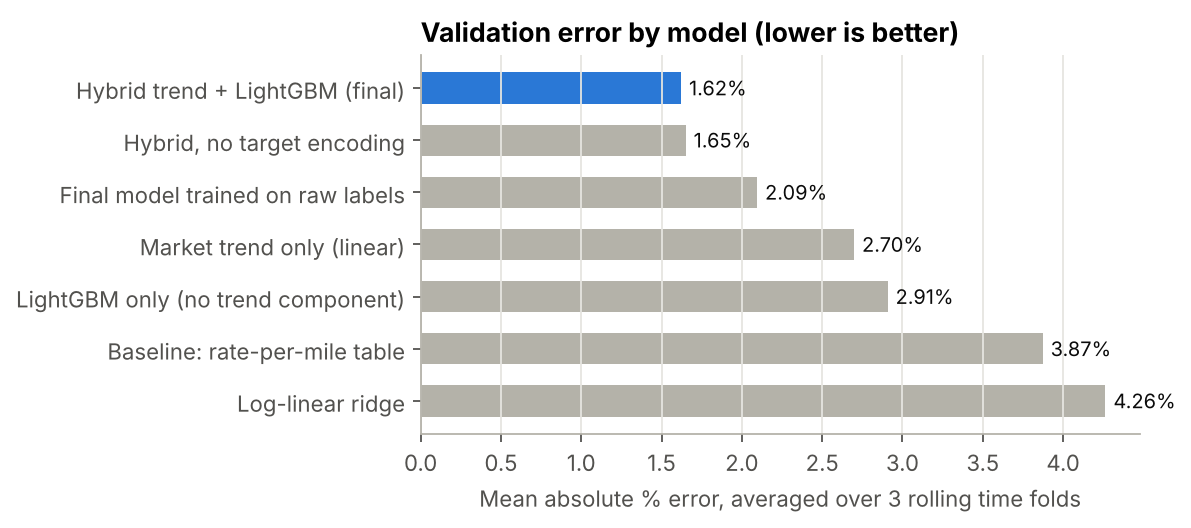
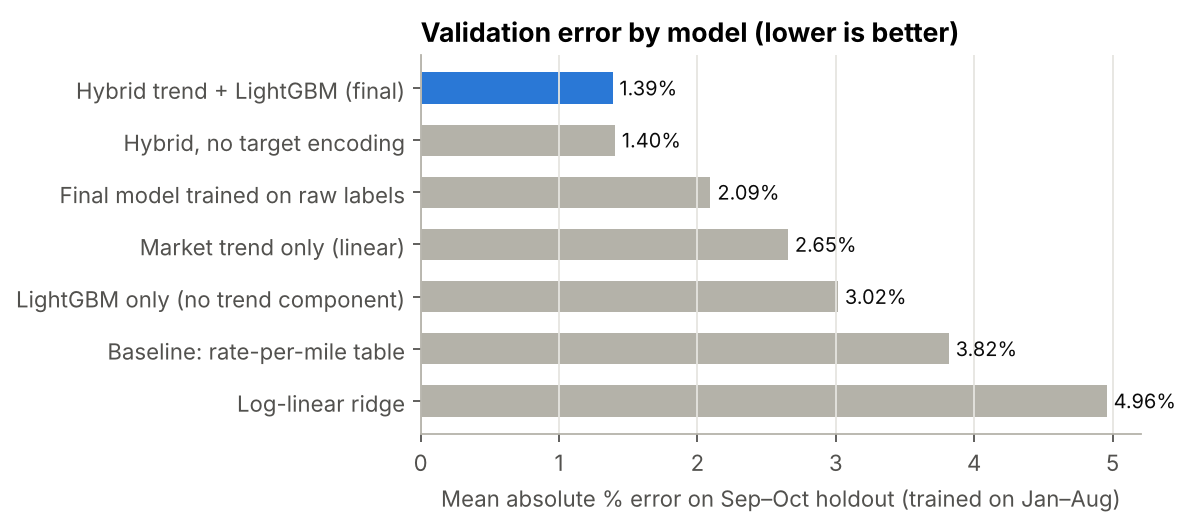
Compare models on the same holdout fold in report chart
Claude-Session: https://claude.ai/code/session_01J7WmqCRkM1Gczk5iczum4x

diff --git a/src/report_figures.py b/src/report_figures.py
@@ -35,13 +35,14 @@ def save(fig, name):
 
 def model_comparison():
     res = pd.read_csv(ROOT / "outputs" / "validation_metrics.csv")
-    s = res[res["labels"] == "clean"].groupby("model")["MAPE_%"].mean().sort_values(ascending=False)
+    primary = res["fold"].str.contains("test 2025-09-01")
+    s = res[(res["labels"] == "clean") & primary].set_index("model")["MAPE_%"].sort_values(ascending=False)
     fig, ax = plt.subplots(figsize=(7.5, 3.4))
     colors = [BLUE if "final" in m else GRAY for m in s.index]
     ax.barh(s.index, s.values, color=colors, height=0.6)
     for y, v in enumerate(s.values):
         ax.text(v + 0.05, y, f"{v:.2f}%", va="center", color=INK, fontsize=9)
-    ax.set_xlabel("Mean absolute % error, averaged over 3 rolling time folds")
+    ax.set_xlabel("Mean absolute % error on Sep–Oct holdout (trained on Jan–Aug)")
     ax.grid(axis="y", visible=False)
     ax.set_title("Validation error by model (lower is better)")
     save(fig, "model_comparison.png")
